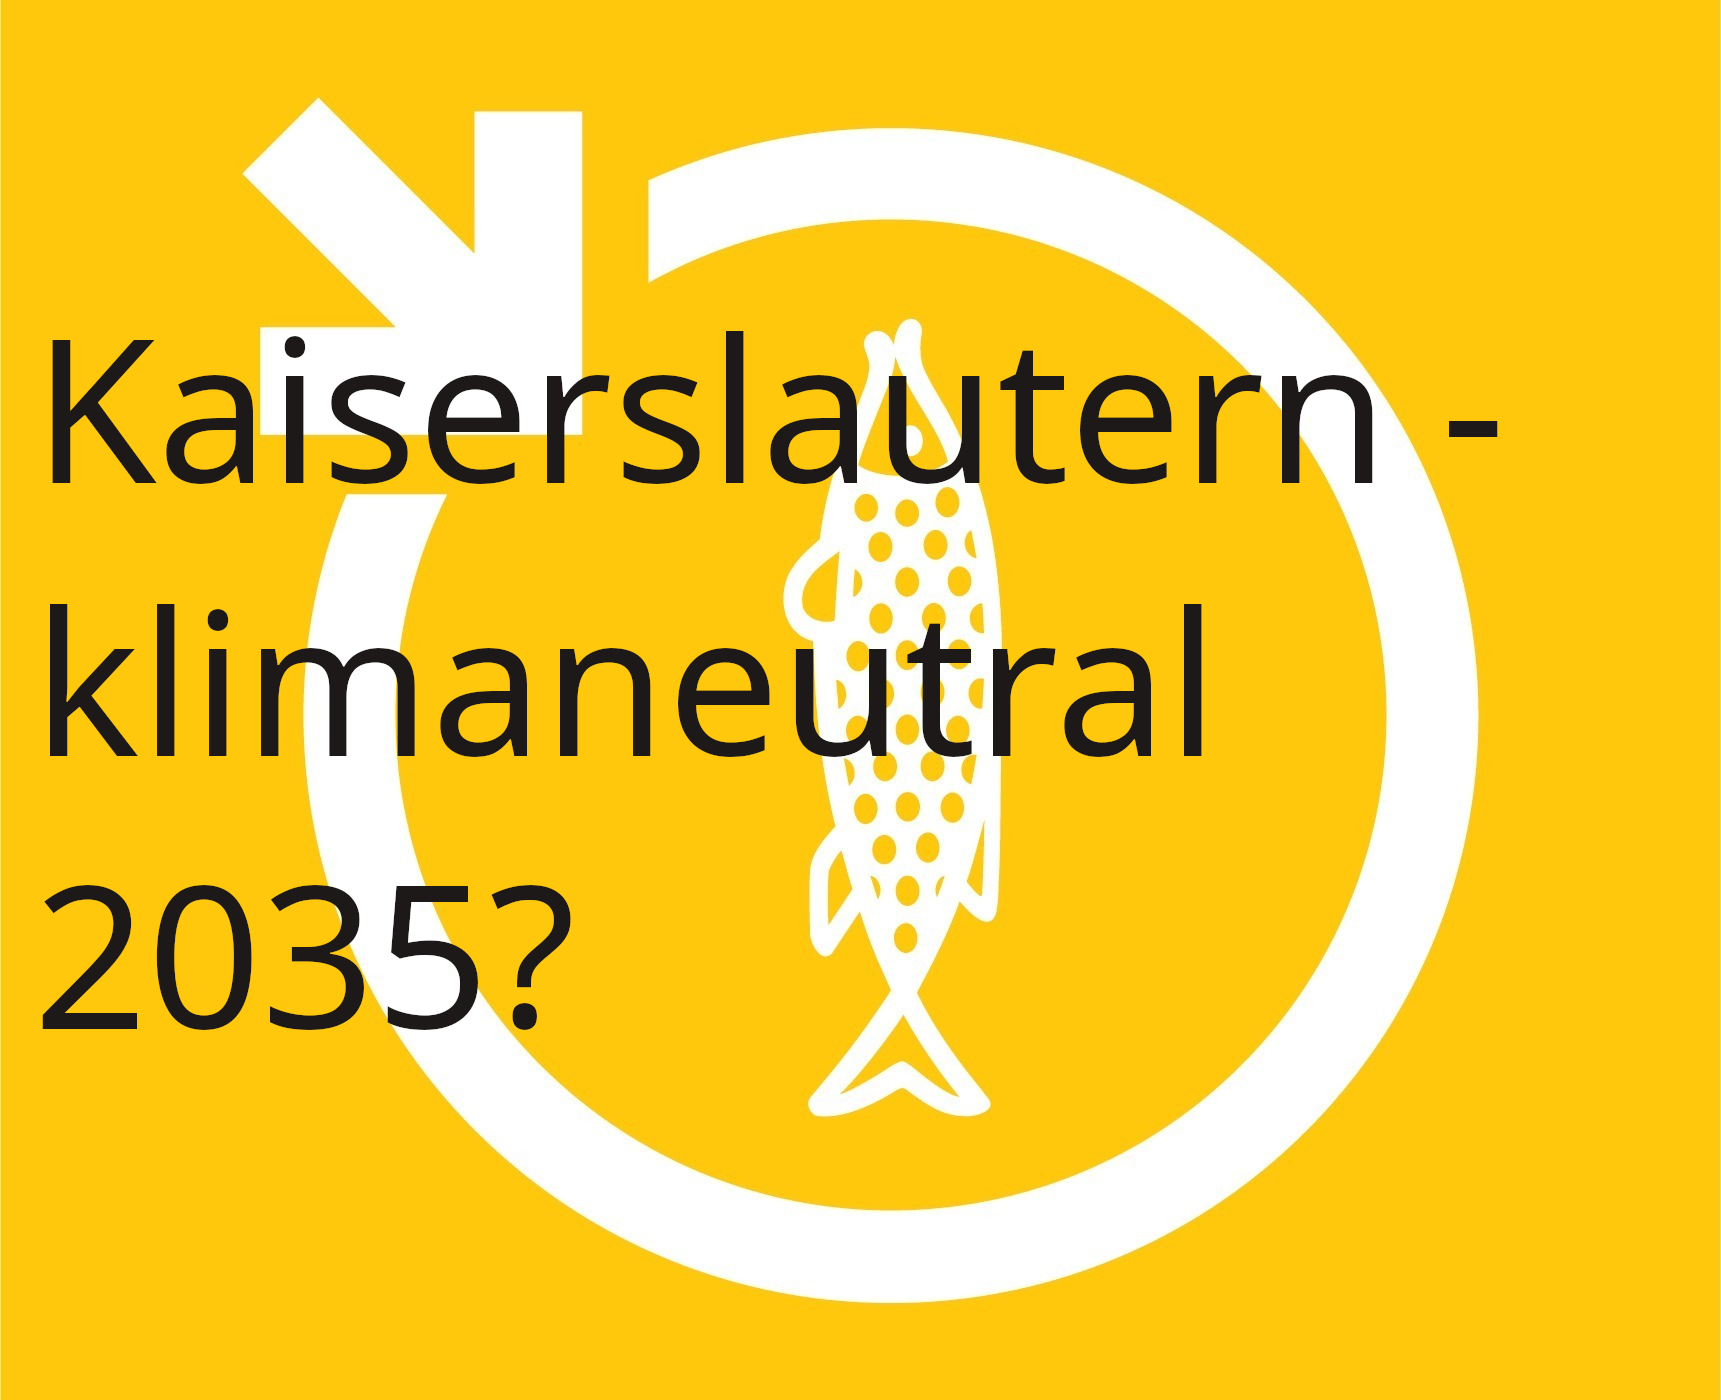
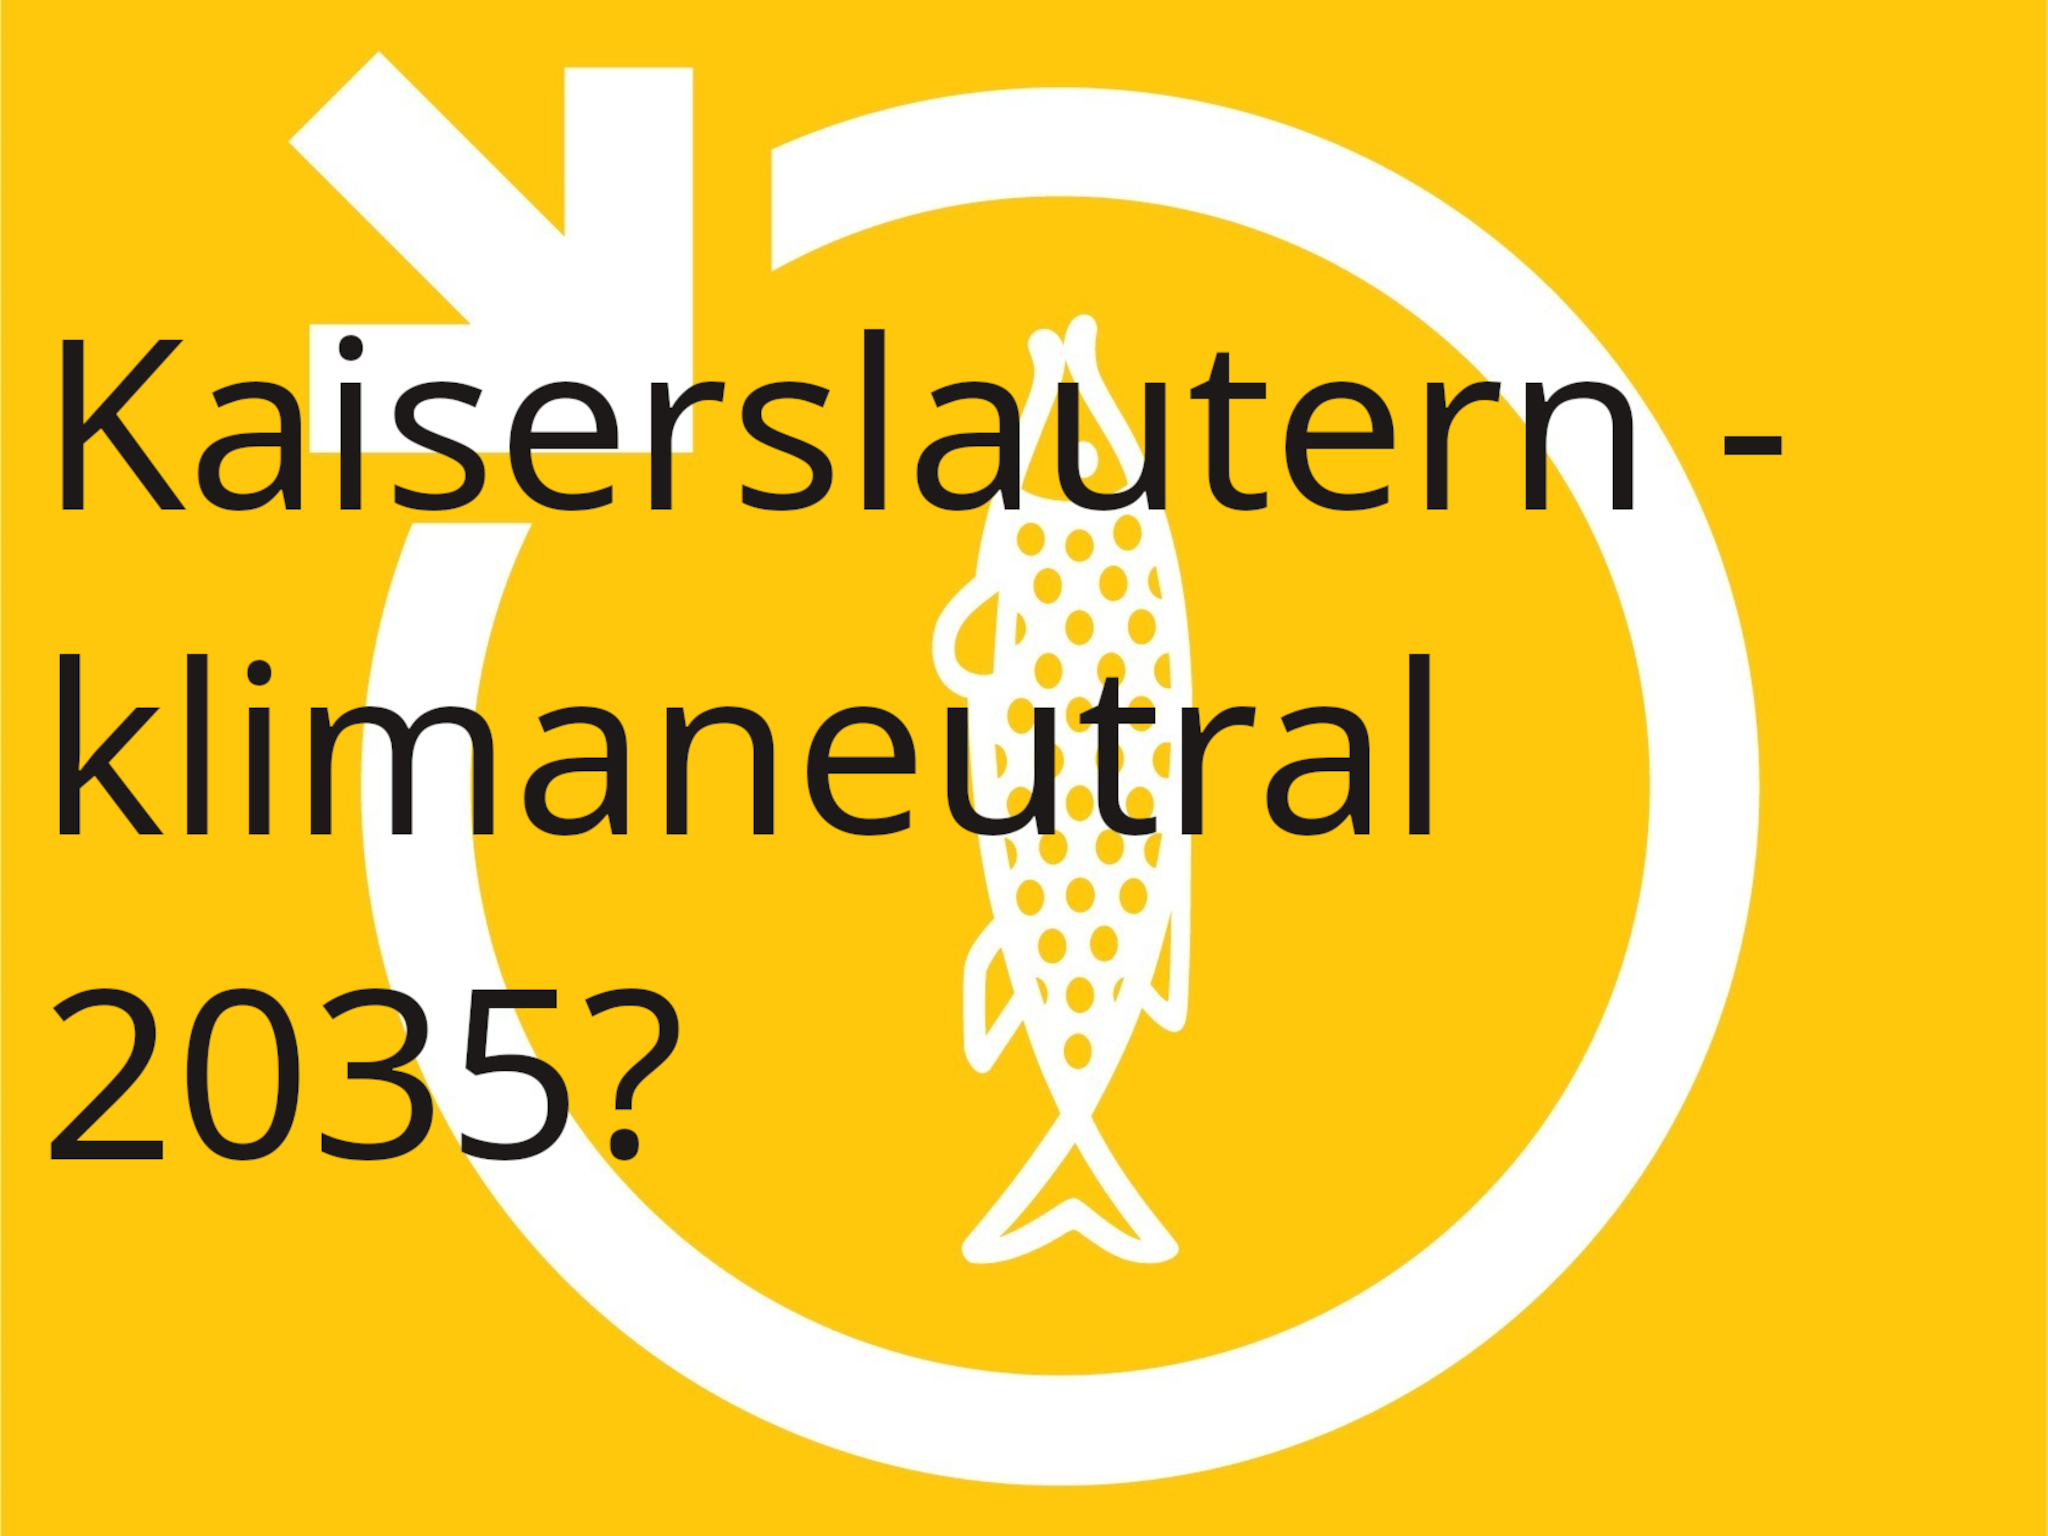
Layout Fix Blog Post Übersicht

diff --git a/_posts/2023-01-22-Kaiserslautern-klimaneutral-geht-2035.md b/_posts/2023-01-22-Kaiserslautern-klimaneutral-geht-2035.md
@@ -1,5 +1,5 @@
 ---
-title: Kaiserslautern klimaneutral - geht 2035?
+title: Kaiserslautern klimaneutral 2035?
 layout: post
 description: Kaiserslautern klimaneutral - geht 2035? Der Bericht des ifeu gibt Antworten.
 thumbnail: /images/2023-01-22-kaiserslautern-klimaneutral-2035.png
